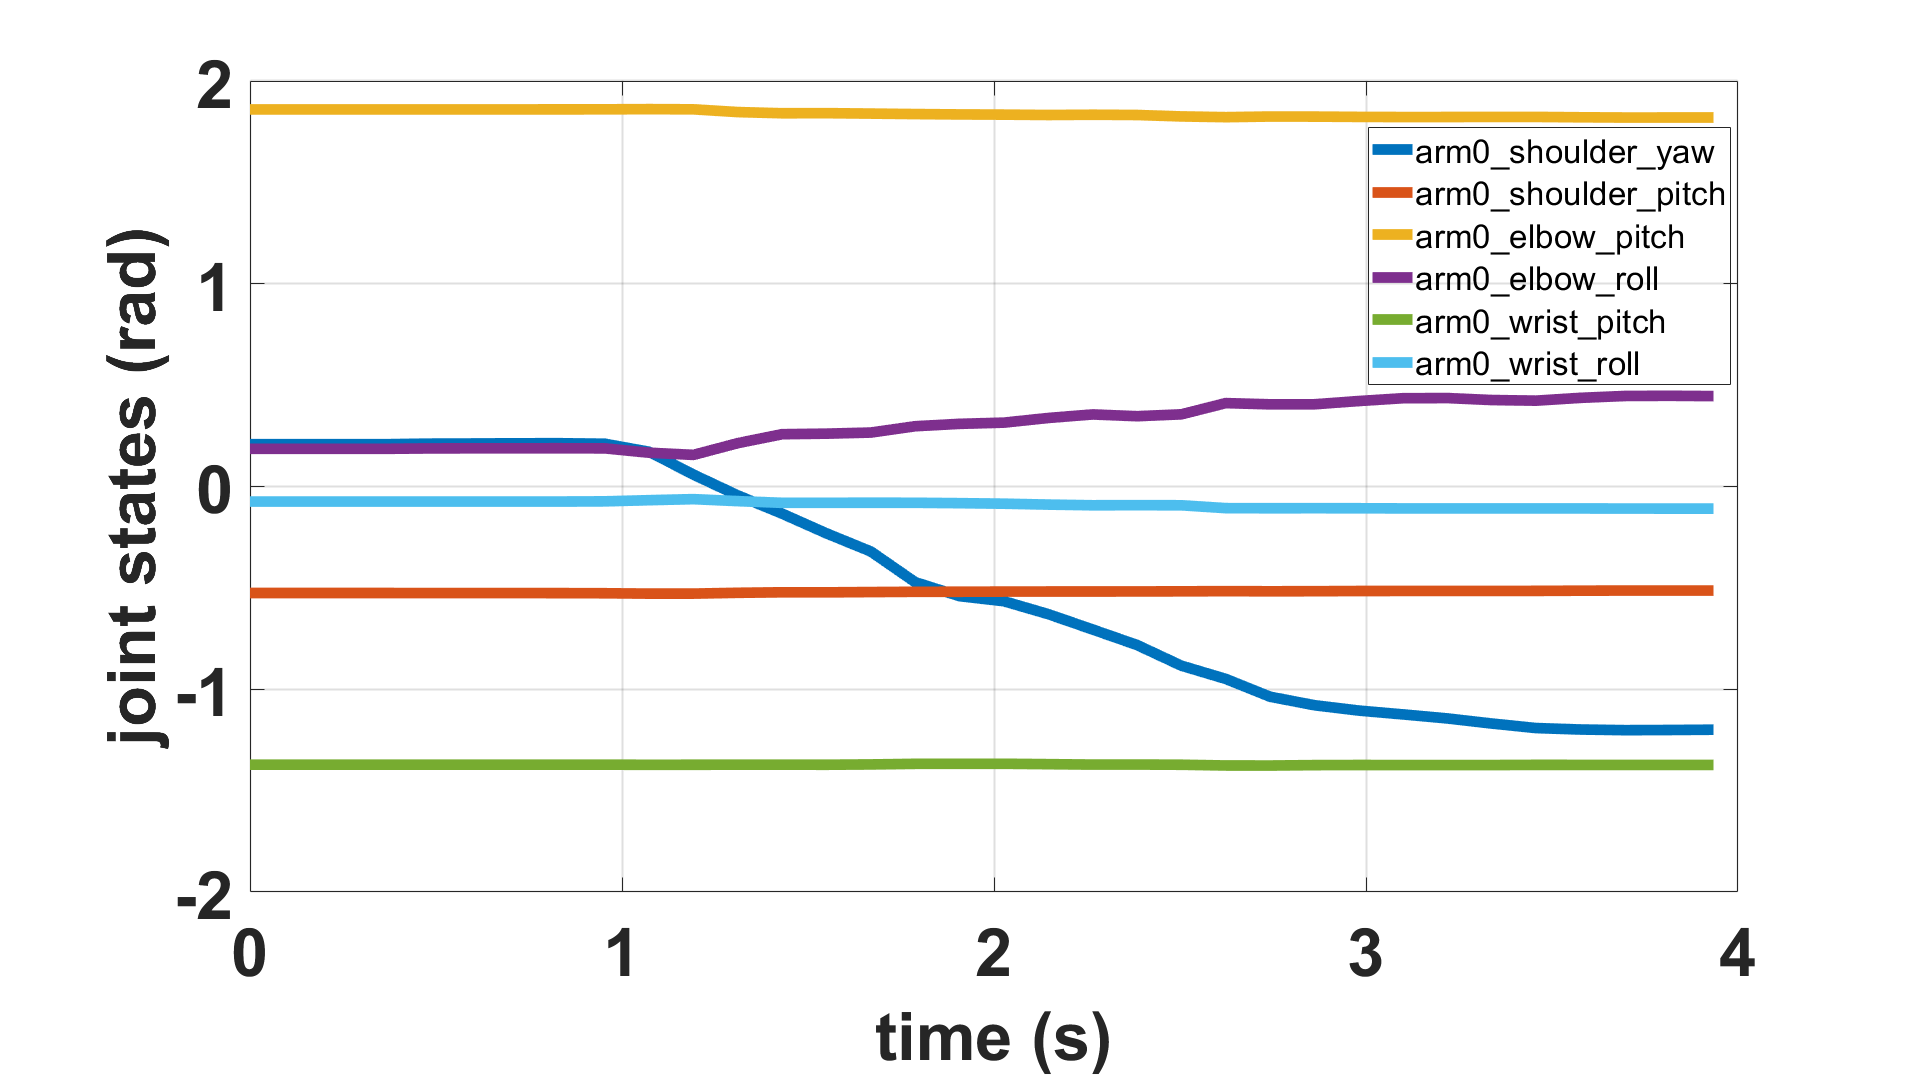
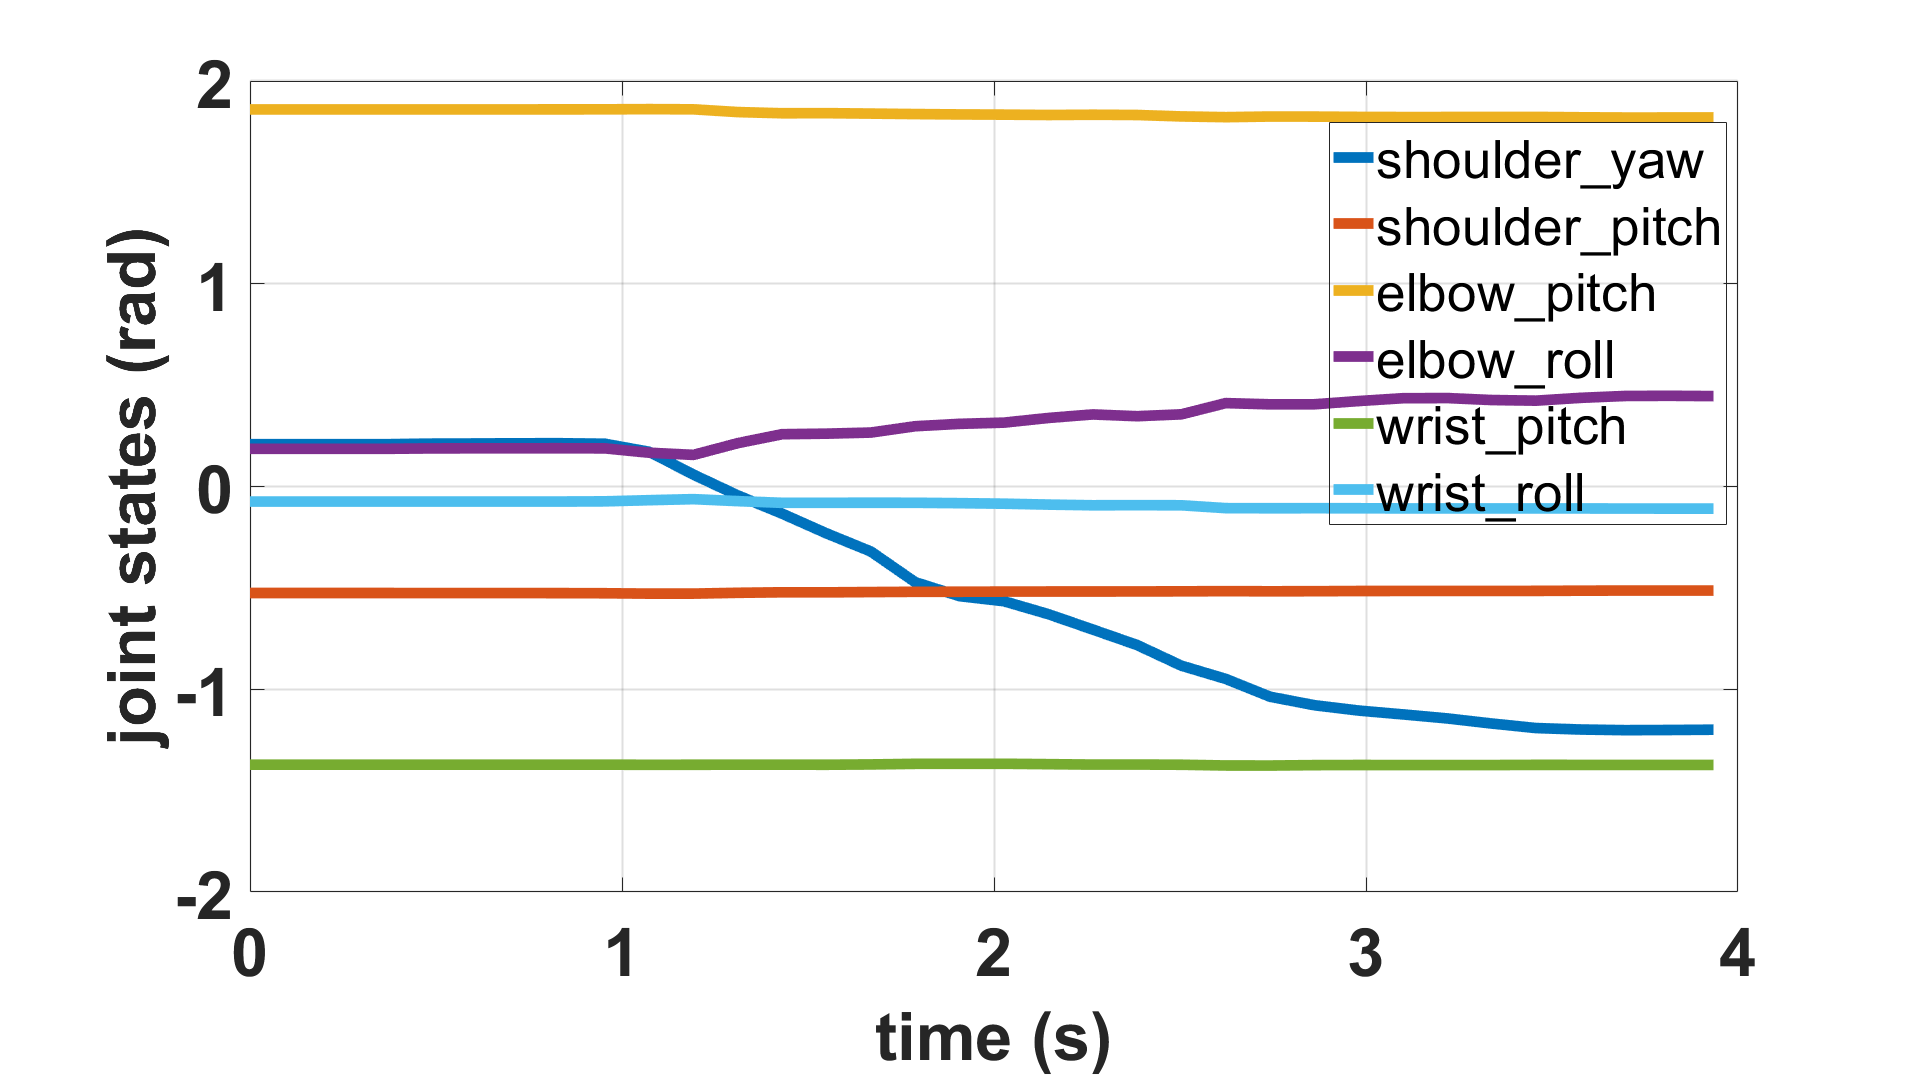
update moving_a_stool plot font sizes

Changed region(s): [[0.6875, 0.1228, 0.9062, 0.4912]]

diff --git a/real_robot_data_plots_and_demos/moving_a_stool/ee_position_and_joint_states_plotter.m b/real_robot_data_plots_and_demos/moving_a_stool/ee_position_and_joint_states_plotter.m
@@ -160,7 +160,7 @@ end
 
 % Joint state column headers
 js_end_index = 34; % specify end to truncate saturated readings
-joint_names = {'arm0_shoulder_yaw', 'arm0_shoulder_pitch', 'arm0_elbow_pitch', 'arm0_elbow_roll', 'arm0_wrist_pitch', 'arm0_wrist_roll'};
+joint_names = {'shoulder_yaw', 'shoulder_pitch', 'elbow_pitch', 'elbow_roll', 'wrist_pitch', 'wrist_roll'};
 
 % Extract data and plot
 for i = 1:length(joint_names)
@@ -176,7 +176,7 @@ grid on
 % Set fontsizes for various plot parameters
 title_fontsize = 50;
 label_fontsize = 50;
-legend_fontsize = 25;
+legend_fontsize = 40;
 tick_fontsize = 50;
 grid_lw = 1.5;
 
@@ -201,8 +201,8 @@ ax_joint_states.GridLineWidth = grid_lw;
 
 % Set legend position
 legend_position = ax_joint_states.Legend.Position;
-shift_amount_x = 0.245; 
-shift_amount_y = 0.245; 
+shift_amount_x = 0.265; 
+shift_amount_y = 0.28; 
 ax_joint_states.Legend.Position = [legend_position(1) + shift_amount_x, legend_position(2)+ shift_amount_y, legend_position(3), legend_position(4)];
 
 % Plot Error between predicted and actual EE cartesian trajectory
@@ -287,7 +287,7 @@ plot(ax_ee_traj_final, df_pred{:, 'PredEEX'} * 1000, ...
     df_pred{:, 'PredEEY'} * 1000, ...
     'b-o', 'LineWidth', 8, 'MarkerSize', 15, 'DisplayName', 'predicted trajectory');
 point_labels = 1:1:length(df_pred{:, 'PredEEX'} );
-point_label_font_size = 15;
+point_label_font_size = 25;
 labelpoints(df_pred{:, 'PredEEX'} * 1000, ...
      df_pred{:, 'PredEEY'} * 1000, point_labels,'SE', 0.4, 1, 'Fontsize', point_label_font_size, 'Color', 'b');
 hold on;
@@ -317,7 +317,7 @@ hLegend.Color = 'white'; % Set the background color of the legend box
 % Set fontsizes for various plot parameters
 title_fontsize = 35;
 label_fontsize = 35;
-legend_fontsize = 25;
+legend_fontsize = 35;
 tick_fontsize = 30;
 grid_lw = 1.5;
 
@@ -339,8 +339,8 @@ ax_ee_traj_final.Legend.FontSize = legend_fontsize;
 
 % Set legend position
 legend_position = ax_ee_traj_final.Legend.Position;
-shift_amount_x = -0.10; 
-shift_amount_y = -0.38; 
+shift_amount_x = 0.05; 
+shift_amount_y = -0.255; 
 ax_ee_traj_final.Legend.Position = [legend_position(1) + shift_amount_x, legend_position(2)+ shift_amount_y, legend_position(3), legend_position(4)];
 
 
